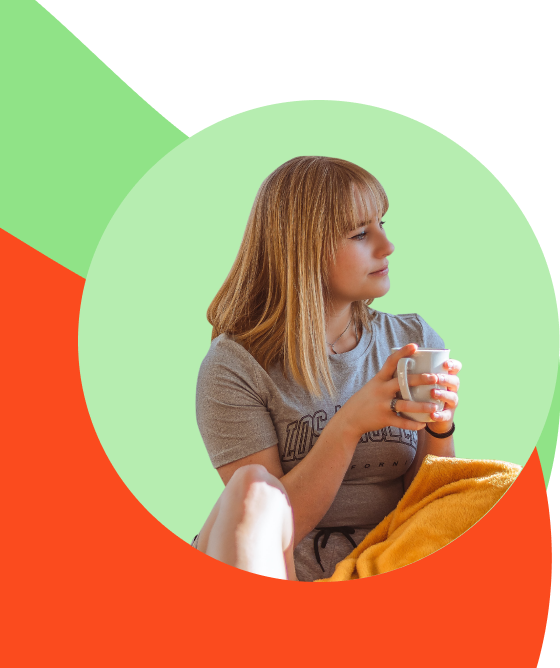
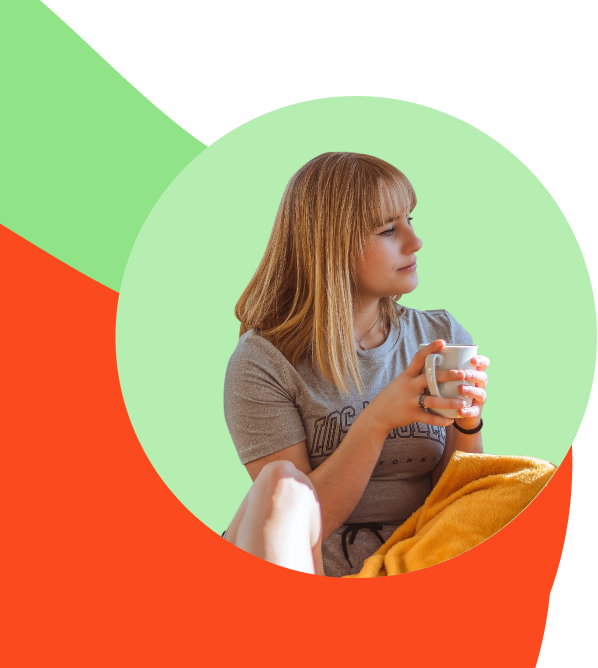
update image

diff --git a/src/scss/sections/_convenience-lover.scss b/src/scss/sections/_convenience-lover.scss
@@ -18,9 +18,8 @@
   }
 
   .co-img-1 {
-    width: 408px;
+    width: 315px;
     height: auto;
-    margin-left: -100px;
 
     @media (max-width: 1200px) {
       width: auto;
